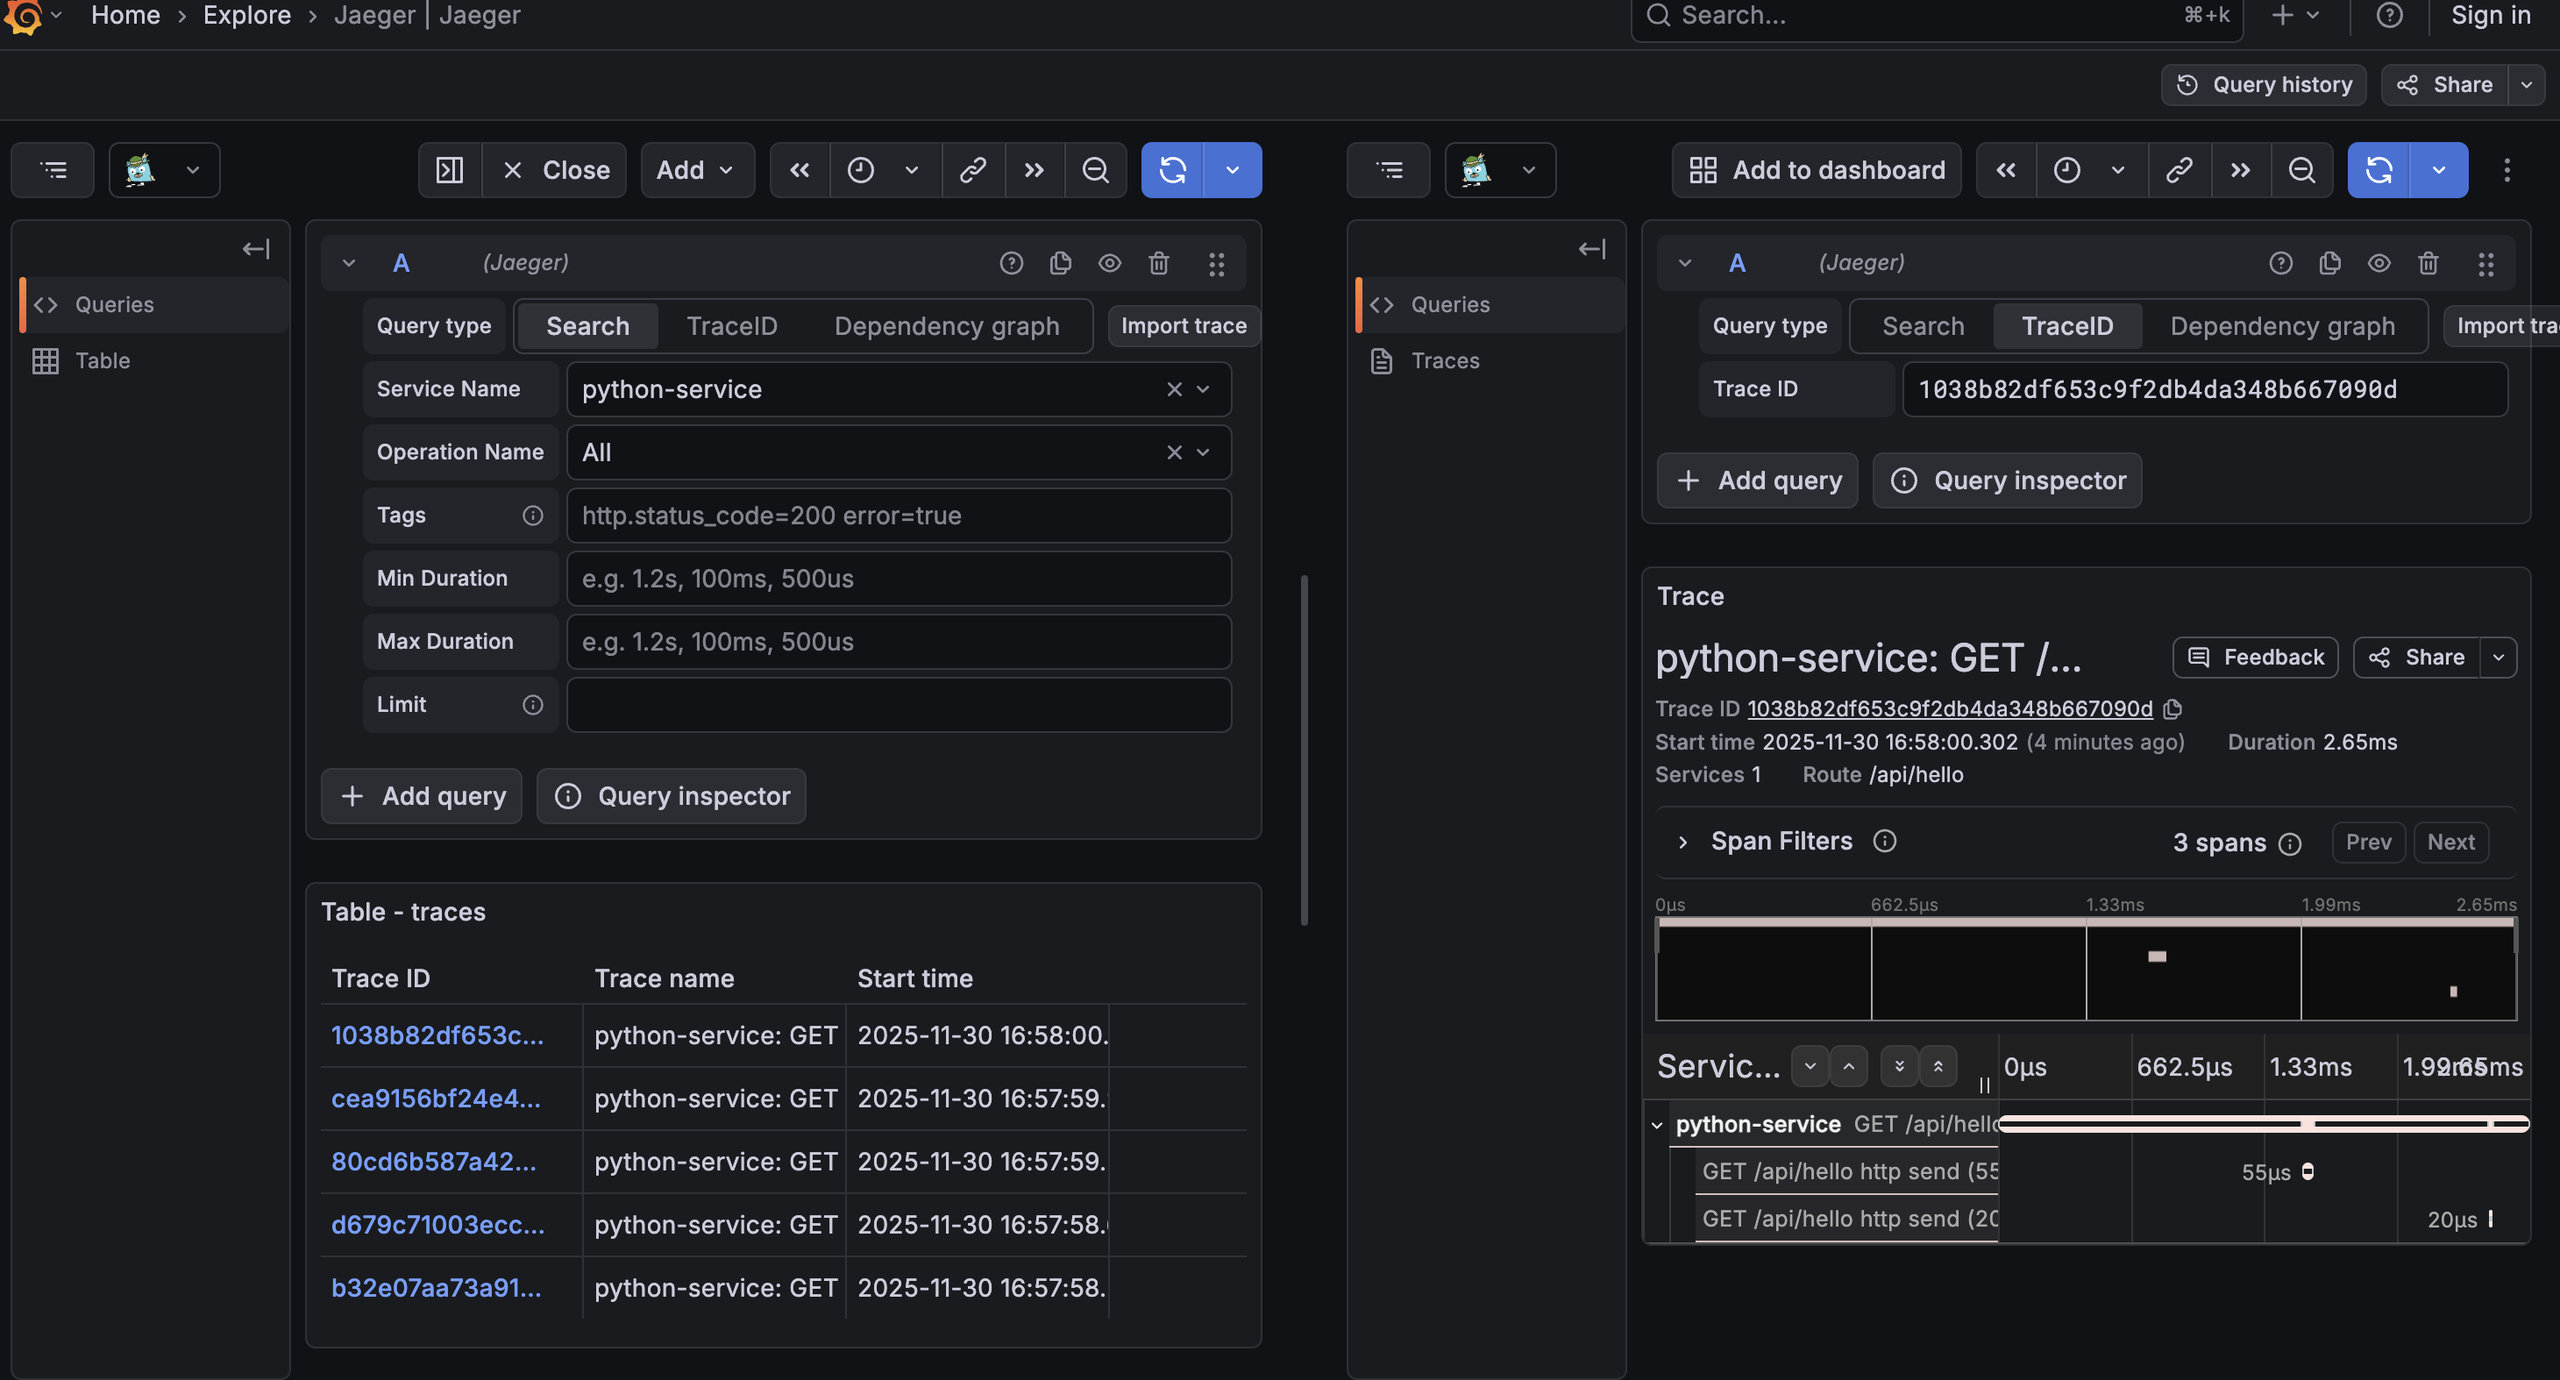
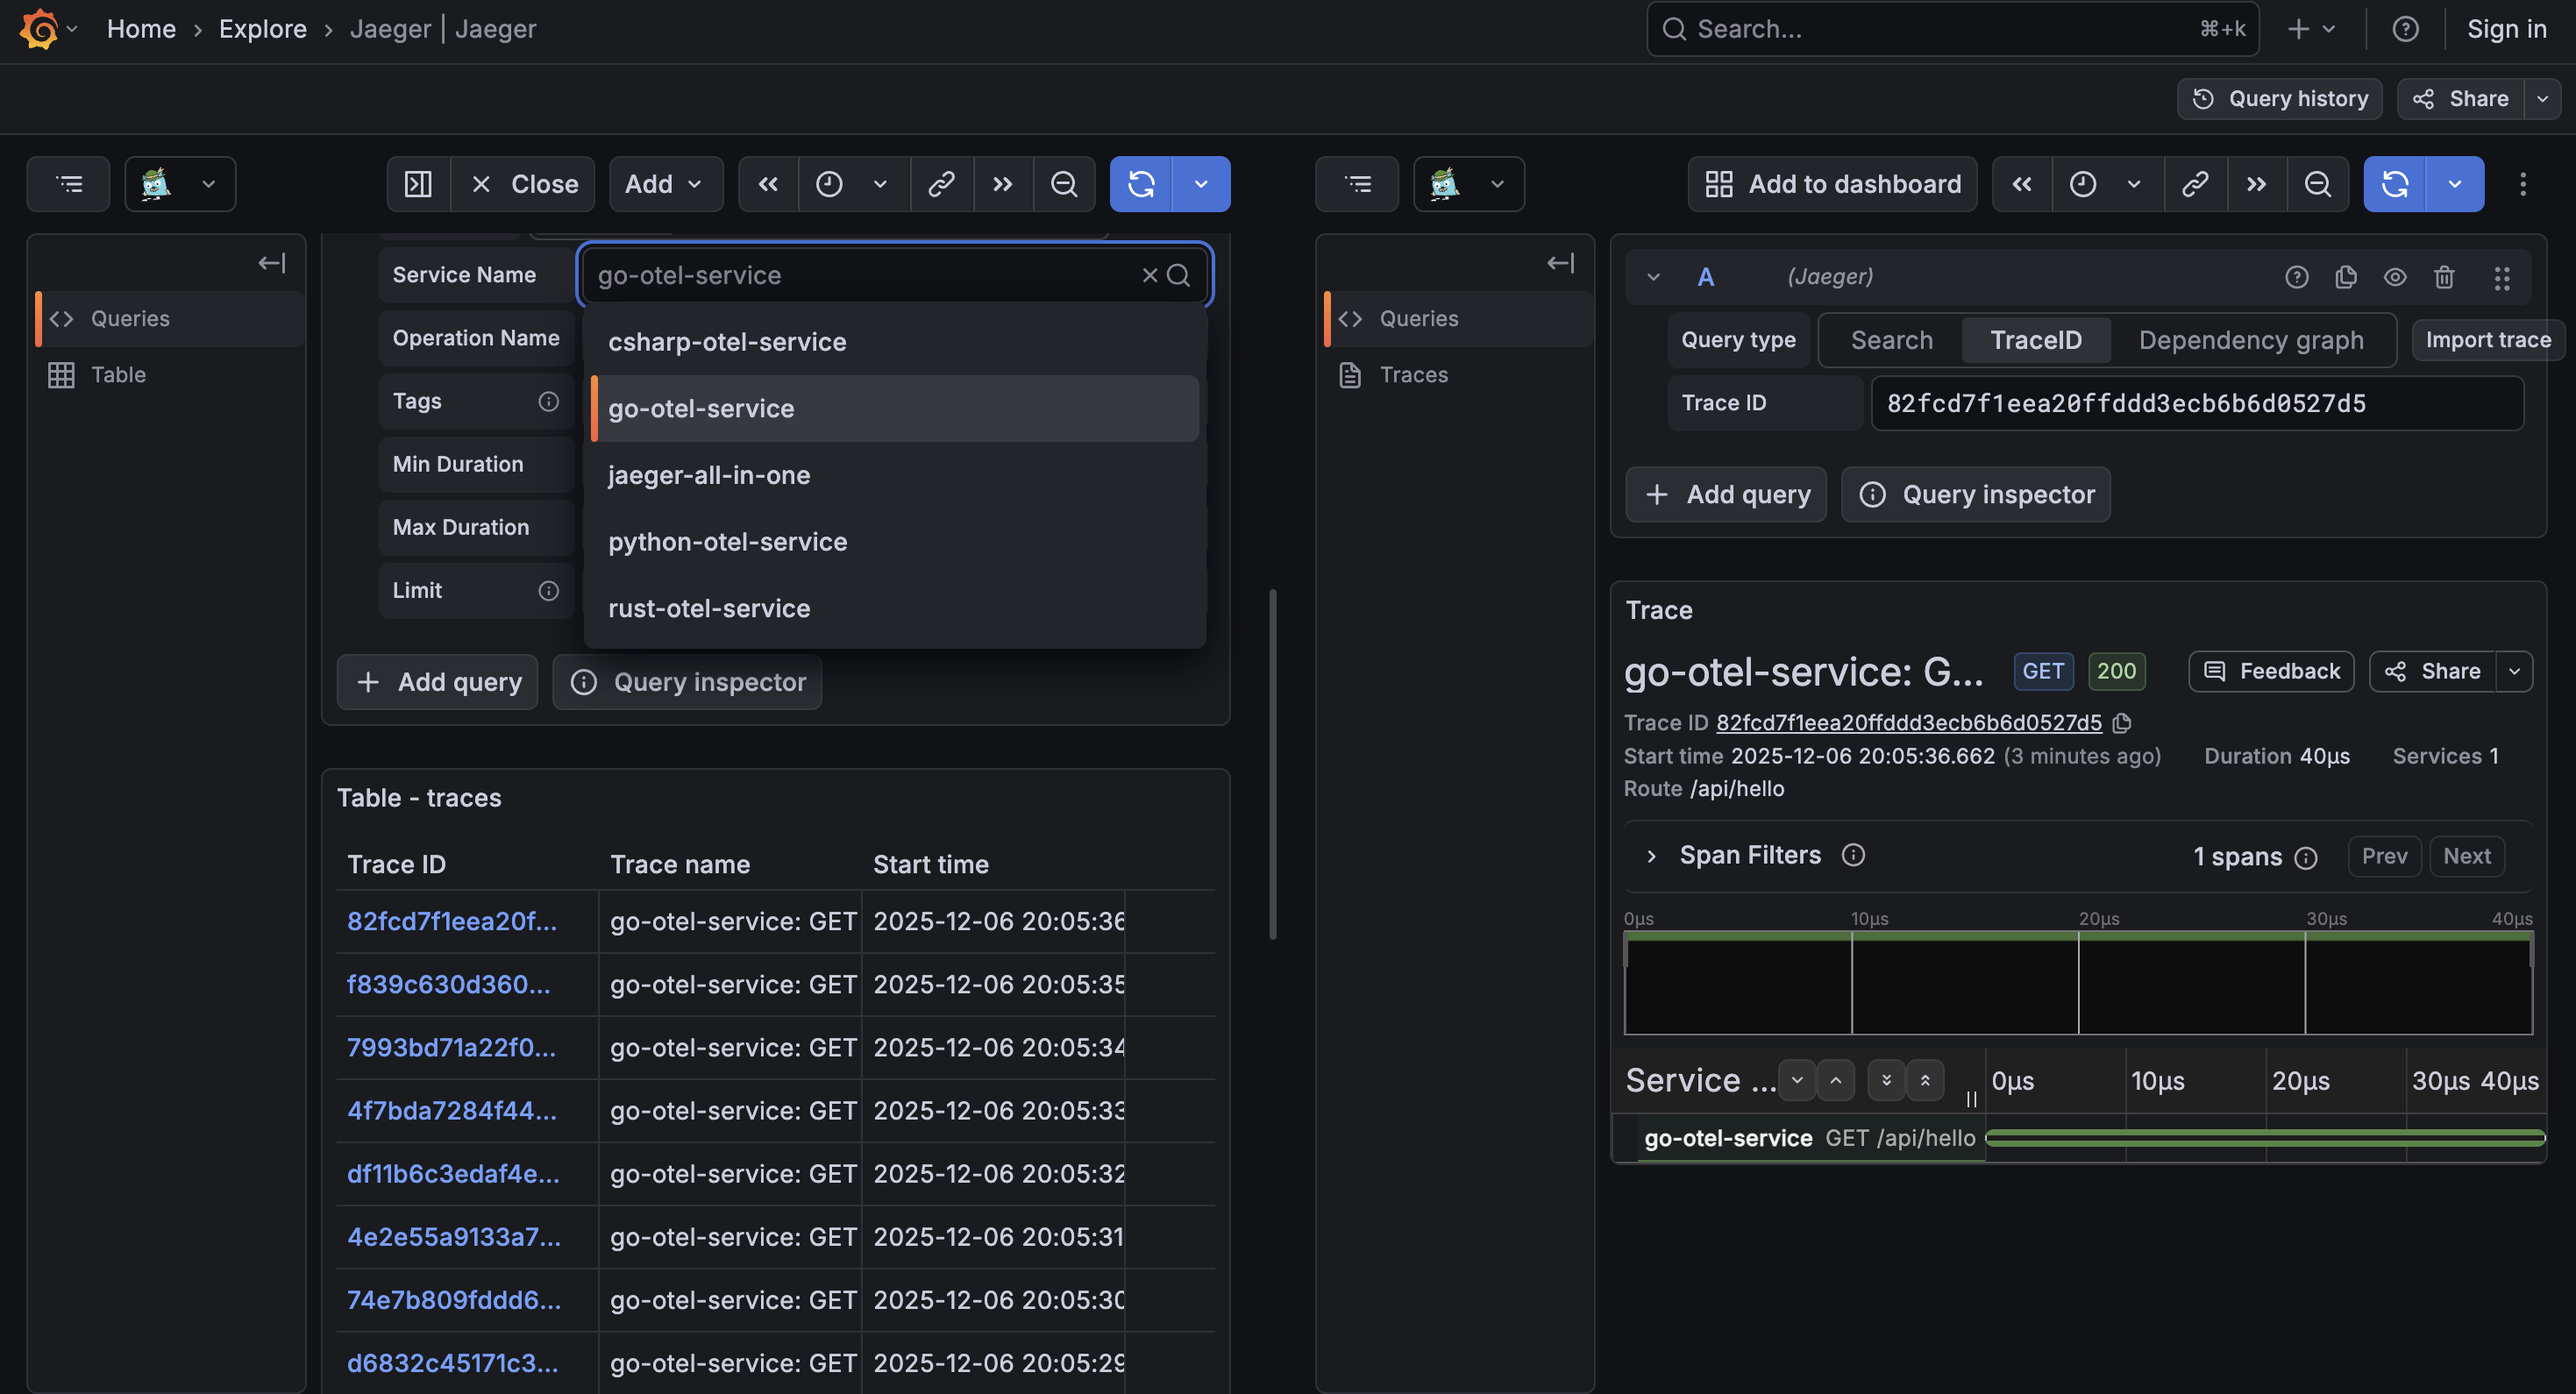
rename services and sub-folders

diff --git a/README.md b/README.md
@@ -10,7 +10,7 @@ make start
 
 # Or start specific services
 make start SERVICES="otel-collector jaeger prometheus loki grafana"
-make start SERVICES="python-service go-service"
+make start SERVICES="python-otel-service go-otel-service"
 
 # Generate test traffic and view results
 make test
@@ -91,7 +91,7 @@ histogram_quantile(0.95, rate(otel_http_server_request_duration_seconds_bucket[5
 ### 3. Logs (Loki)
 ```bash
 # In Grafana Explore → Loki, try:
-{service_name="python-service"}
+{service_name="rust-otel-service"}
 {service_name=~".*-service"} |= "error"
 ```
 ![Logs](./images/grafana-loki-sample-logs.png)
@@ -112,10 +112,10 @@ Each service has a pre-configured VS Code dev container with debugging support. 
 
 **Available Commands:**
 ```bash
-make start SERVICES="svc1 svc2"     # Start specific services
-make build SERVICES="rust-service"  # Build specific service
-make logs SERVICES="python-service" # View logs
-make clean                          # Reset everything
+make build SERVICES="python-otel-service go-otel-service"  # Build specific service/s
+make start SERVICES="python-otel-service go-otel-service"  # Start specific service/s
+make logs SERVICES="python-otel-service go-otel-service"   # View service/s logs
+make clean                                                 # Reset everything
 ```
 
 ## Troubleshooting
